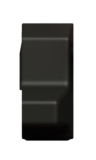
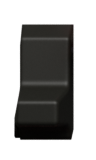
fix(panel): drawbar cap profile measured from the purchased model

Changed region(s): [[0.125, 0.125, 0.7812, 0.9062]]

diff --git a/assets/blender/parts_cap.py b/assets/blender/parts_cap.py
@@ -10,29 +10,33 @@ from __future__ import annotations
 import bpy
 from proof_geom import box, loft
 
-# Shape EMPIRICAL, measured on the owner's photo of a loose cap (2026-11-13, oblique view,
-# lengths scaled by the 113 px cap width at the block top, verticals by the block's front
-# corner edge; about +/-15 % from perspective). One part: base lip behind a tall rear block,
-# block front face sloping forward onto a long full-width nose (rounded join), nose top
-# chamfered at the front onto an upright front wall. Plan size EMPIRICAL from the reference
-# (100 x 231 px = 0.78 x 1.79 u at the base). Black and white caps share this geometry.
+# Shape EMPIRICAL, measured on the owner's purchased 3D model of the instrument (D17; the
+# model stays in .reference/, never committed): one drawbar cap mesh, projected onto the
+# panel plane and scaled so its width is CAP_W (scratch command recorded in
+# docs/research/panel-blender-proof.md, eighth review). Mesh sampling error about 0.02 u.
+# Side profile as (distance from the nose tip, top height), nose tip first: chamfer to the
+# tip, flat nose, block front slope, block top, block back slope, rear ledge. The model's
+# stray 4-vertex quads near the tip are not part of the cap and are dropped.
 CAP_W = 0.80
-CAP_BACK, CAP_FRONT = 0.90, -0.89
-# Profile EMPIRICAL from the owner's side photo (2026-11-13, white cap, 342 px base length =
-# 1.79 u, 0.0052 u/px, about +/-10 % from the low camera); width taper and foot flare from
-# the owner's rear photo of three caps.
-CAP_HT, CAP_HN = 1.00, 0.47  # block 215 px, nose 100 px tall
-BLOCK_TOP_FRONT = 0.25  # block top front edge at 217 px from the nose tip
-BLOCK_FRONT = 0.04  # block front face meets the nose at 177 px: steep forward slope
-NOSE_TOP_FRONT = -0.66  # flat nose top ends at 44 px, then the chamfer
-NOSE_FRONT_H = 0.10  # short upright nose front wall under the chamfer
-LIP_L, LIP_H = 0.07, 0.20  # base step behind the block: 15 px out, 45 px tall
-CAP_TAPER = 0.20  # rear photo: block top about 0.8 of its base width
-FLARE_H = 0.14  # rear photo: walls flare out over the bottom ~0.14 u (concave foot)
-STEP = 0.04  # ASSUMED: run of the near-vertical back wall, so the bevel is not clamped
-CAP_BEVEL = 0.12  # EMPIRICAL: reference cap corners read about 8 px rounded at 2x
+CAP_PROFILE = (
+    (0.00, 0.02),
+    (0.20, 0.36),
+    (0.79, 0.36),
+    (0.84, 0.42),
+    (0.99, 1.03),
+    (1.24, 1.04),
+    (1.30, 0.95),
+    (1.37, 0.40),
+    (1.40, 0.36),
+    (1.587, 0.36),
+)
+CAP_LEN_SCALE = 1.03  # EMPIRICAL: silhouette fit against the reference (model 1.587 u long)
+CAP_FRONT = -0.878  # nose tip, 0.06 u toward the back: the leaned render then fits the reference
+CAP_TAPER = 0.03  # model: top of the block 0.78 against a 0.80 base, walls upright
+CAP_BEVEL = 0.05  # model: corner radius about 0.05 u
+CAP_FLIP = True  # model orientation, nose away from the player (silhouette IoU 0.884 vs 0.868)
 CAP_LIFT = 0.03  # cap floats above the plate so the slot shows under it
-FOOT_WALL = 0.06  # ASSUMED: upright strip at the foot of every wall
+FOOT_WALL = 0.03  # ASSUMED: upright strip at the foot of every wall
 # Layer-fader cap EMPIRICAL from its photo: a frustum, top smaller than the base on all sides,
 # rounded edges. Base 96 x 74 reference px.
 LAYER_W, LAYER_L, LAYER_H = 0.74, 0.61, 0.36
@@ -42,42 +46,28 @@ LAYER_BEVEL = 0.07
 SLOT_W, SLOT_LEN, SLOT_DEPTH, PLATE_T = 0.17, 3.4, 0.16, 0.2
 
 
-def _section(y, z, top_x, left=-CAP_W / 2):
-    """Cross-section at y: bottom from `left` to the right edge, top edge between `top_x`."""
+def _section(y, z, top_x):
+    """Cross-section at y: full-width bottom, short upright foot, top edge between `top_x`."""
     hb, zl = CAP_W / 2, CAP_LIFT
-    v = min(FOOT_WALL, z * 0.5)  # short upright wall: every bottom edge is 90 deg, so the
-    # bevel shrinks the outline the same everywhere (sloped walls would bevel deeper)
-    f = min(FLARE_H, z * 0.6)  # flared foot: steep inward kink, then the tapered wall
-    fx = hb - (hb - top_x[1]) * 0.5 * f / max(z, 1e-6) - 0.03 * (f / FLARE_H)
+    v = min(FOOT_WALL, z * 0.5)  # every bottom edge is 90 deg, so the bevel is even
     return [
-        (left, y, zl),
+        (-hb, y, zl),
         (hb, y, zl),
         (hb, y, zl + v),
-        (fx, y, zl + f),
         (top_x[1], y, zl + z),
         (top_x[0], y, zl + z),
-        (-fx, y, zl + f),
-        (left, y, zl + v),
+        (-hb, y, zl + v),
     ]
 
 
 def fader_cap(m, key):
-    """Drawbar cap, one loft from back to front: base lip, tall rear block whose front face
-    slopes onto the full-width nose, chamfered nose top, upright front wall (the end cap of
-    the loft). Smooth shading plus an unclamped bevel round every edge (photo)."""
-    ht, hn = CAP_HT, CAP_HN
+    """Drawbar cap, one loft along CAP_PROFILE from the nose tip (player side) to the back."""
     top = (-CAP_W / 2 * (1 - CAP_TAPER), CAP_W / 2 * (1 - CAP_TAPER))
-    secs = [
-        (CAP_BACK, LIP_H),
-        (CAP_BACK - LIP_L, LIP_H),
-        (CAP_BACK - LIP_L - STEP, ht),
-        (BLOCK_TOP_FRONT, ht),
-        (BLOCK_FRONT, hn),
-        (NOSE_TOP_FRONT, hn),
-        (CAP_FRONT, NOSE_FRONT_H),
-    ]
-    rings = [_section(y, z, top) for y, z in secs]
-    return [loft("cap_body", rings, m[key], smooth=True, bevel=CAP_BEVEL, segments=8)]
+    sign = -1 if CAP_FLIP else 1
+    rings = [_section(sign * (CAP_FRONT + d * CAP_LEN_SCALE), z, top) for d, z in CAP_PROFILE]
+    if CAP_FLIP:
+        rings.reverse()
+    return [loft("cap_body", rings, m[key], smooth=True, bevel=CAP_BEVEL, segments=6)]
 
 
 def layer_cap(m, key):

diff --git a/docs/research/panel-blender-proof.md b/docs/research/panel-blender-proof.md
@@ -170,3 +170,19 @@ Still different:
 - Button down and lit states; LED lenses; drawbar variants; keys.
 - Reduce filmstrip size (palette quantisation, 32 frames for small knobs).
 - egui side-by-side at 1x and 2x once B4 exists; `xtask bake-panel` replaces `tools/panel_assets.py` packing.
+
+## Eighth review: drawbar cap profile from the purchased model (2026-11-13)
+
+Checked: 2026-11-13. Sources: the owner's purchased 3D model (`.reference/HIGH_POLY_KEYBOARD_STAGE_PIANO`,
+never committed), the owner's cap photos. Question: why did caps built from photos not look like the
+real part?
+
+Method: load the glTF in Blender, pick the one drawbar cap (two mesh pieces near x=-0.362, y=1.740,
+z=0.038; the four-vertex stray quads next to it are not part of the cap), project its vertices onto
+the panel plane, scale so the width is 0.80 u, and read the side silhouette. Result (`CAP_PROFILE` in
+`assets/blender/parts_cap.py`): 1.587 u long, block 1.04 u tall, nose 0.36 u, chamfer to the tip, flat
+rear ledge. Plan length stretched by 1.03 and moved 0.06 u back to fit the reference silhouette
+(IoU black 0.959, white 0.929, layer 0.943).
+
+Implications: photo-estimated shapes were off by up to 40 % in height; measure from the model.
+Follow-ups: rounder block edges (model radius about 0.05 u), per-cap lean check on the white cap.
